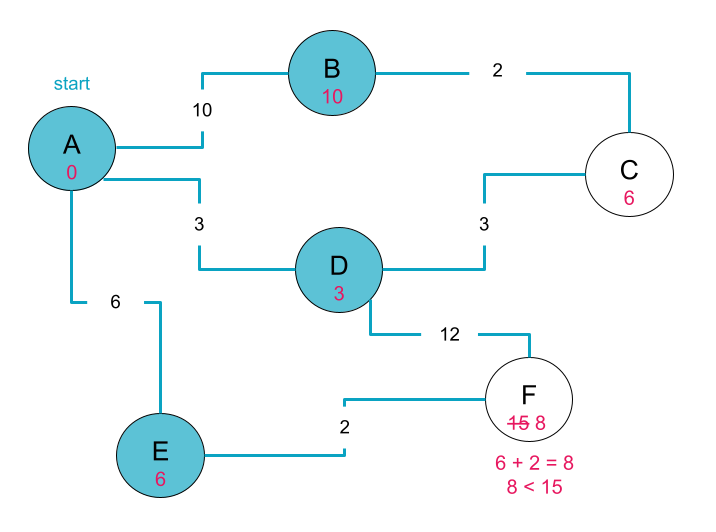
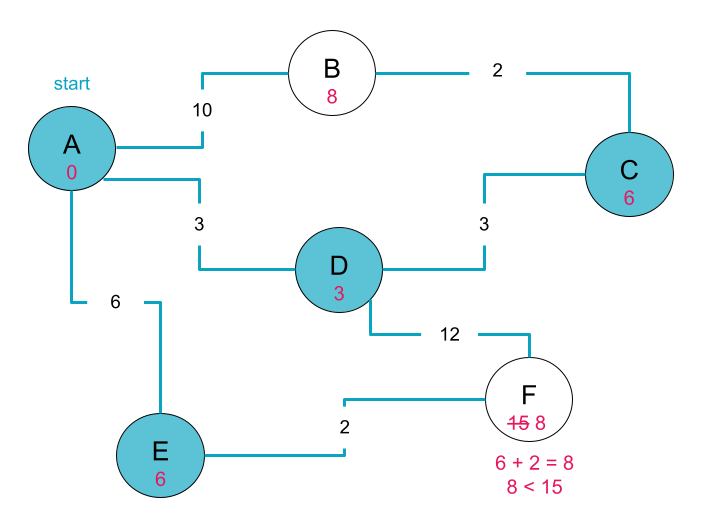
Update step 5 explanation

Changed region(s): [[0.7989, 0.2406, 0.9525, 0.4211], [0.3994, 0.0602, 0.5223, 0.2406]]

diff --git a/09-graphs-p2/02-dijkstra.md b/09-graphs-p2/02-dijkstra.md
@@ -110,7 +110,7 @@ costs/distances:
 ```
 
 ![Dijkstra's Walkthrough Part 5](./images/dijkstras-5.png)
-Step 5. We move on to the next node in the queue, Node E. 
+Step 5. Now Node E is the next as yet unvisited node that is closest to our starting point, Node A.
 
 Node E's only unvisited neighbor is Node F. The minimum cost to travel from Node A to Node F is currently estimated to be 15 via the path from Node A -> Node D -> Node F. 
 
@@ -121,9 +121,7 @@ We add Node E to the list of visited nodes, and its unvisited neighbor, Node F, 
 ```
 current: E
 
-visited nodes: A, B, D, E 
-
-queue: C, C, F, F
+visited nodes: A, D, C, E 
 
 costs/distances:
     - A: 0
